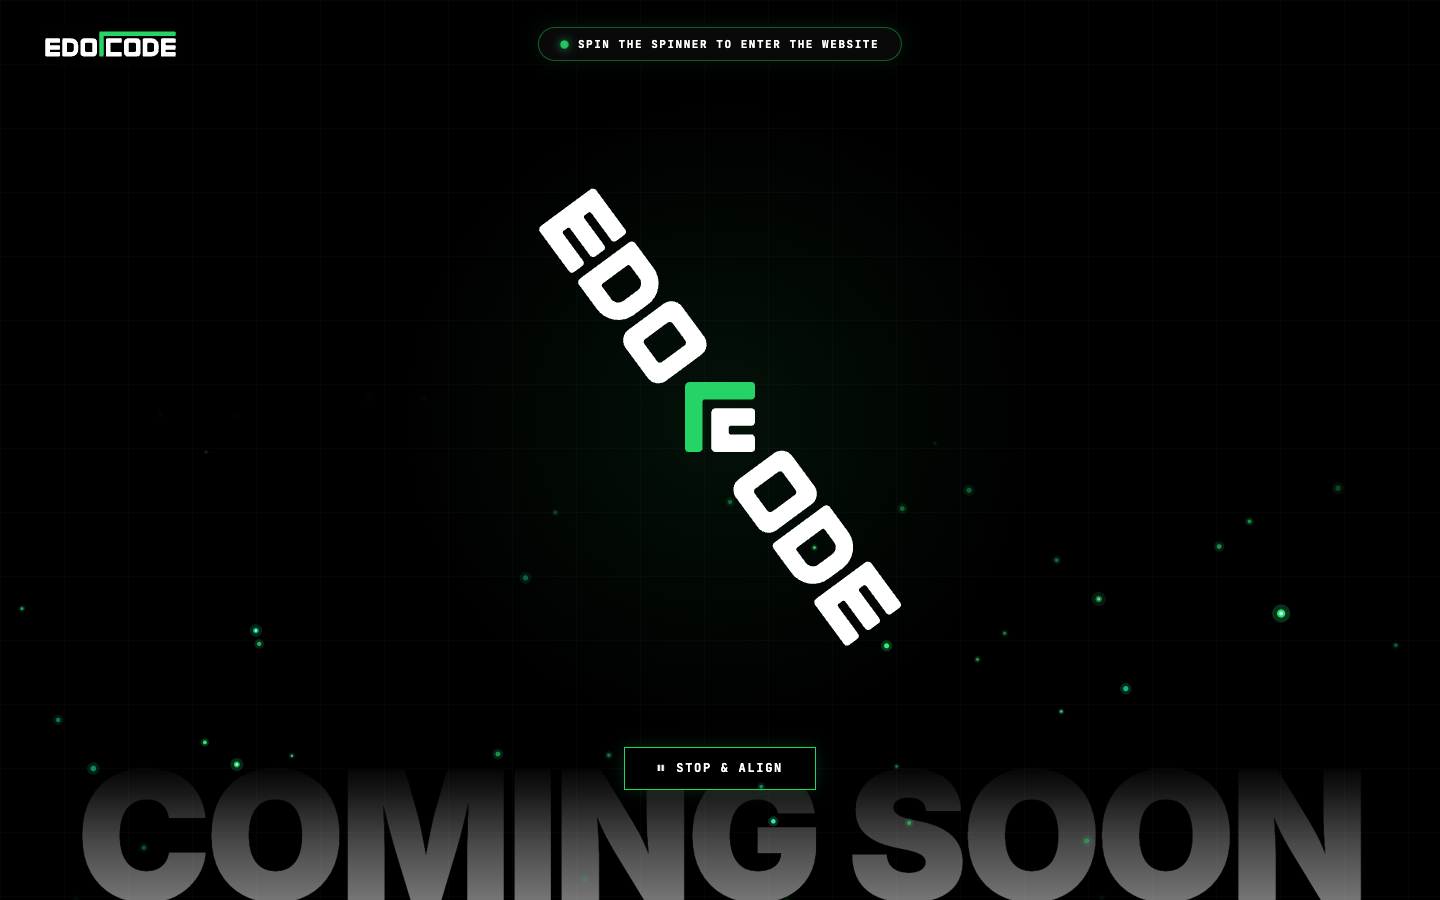
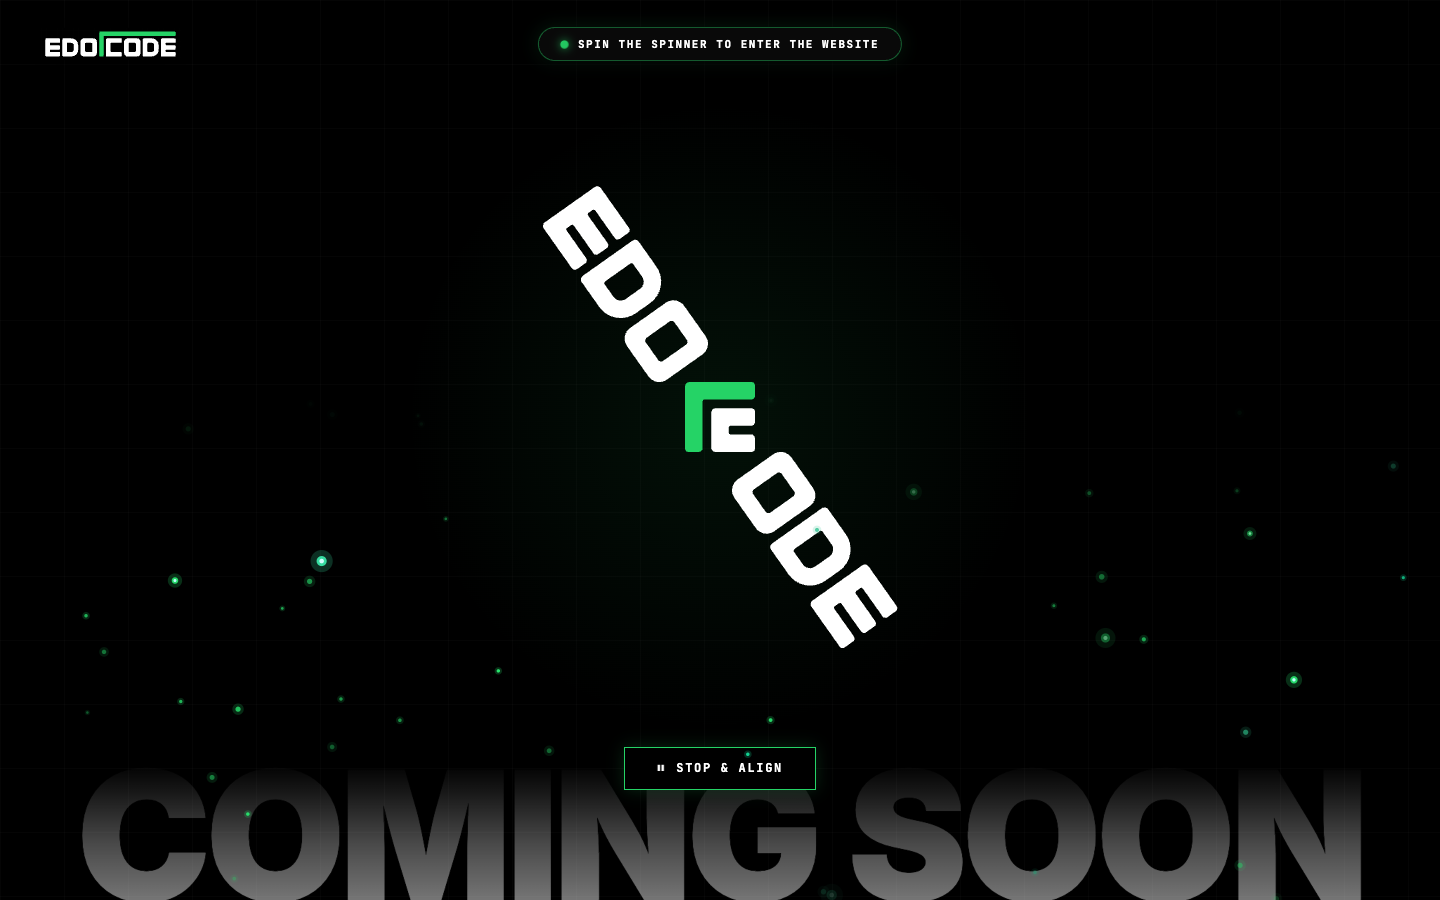
fix(mobile): lower top spin instruction and match coming soon with full-screen view

diff --git a/index.html b/index.html
@@ -297,10 +297,10 @@
     /* Mobile adjustments */
     @media (max-width: 768px) {
       header {
-        padding: 14px 16px;
+        padding: 16px 20px;
         flex-direction: column;
         align-items: center;
-        gap: 10px;
+        gap: 0px;
       }
       .brand-tag {
         align-self: flex-start;
@@ -308,13 +308,14 @@
       .top-instruction {
         position: static;
         transform: none;
-        padding: 7px 16px;
+        margin-top: 30px; /* Positioned lower from the logo for balanced mobile hierarchy */
+        padding: 8px 18px;
         gap: 8px;
         max-width: calc(100vw - 32px);
       }
       .instruction-text {
         font-size: 10px;
-        letter-spacing: 0.07em;
+        letter-spacing: 0.08em;
       }
       .brand-hero-logo {
         height: 24px;
@@ -329,19 +330,7 @@
         font-size: 11px;
       }
       .bg-coming-soon {
-        bottom: max(32px, env(safe-area-inset-bottom, 32px));
-        font-size: clamp(18px, 5.8vw, 30px);
-        letter-spacing: 0.06em;
-        line-height: 1.1;
-        opacity: 0.95;
-        background: linear-gradient(0deg, 
-          rgba(255, 255, 255, 0.90) 0%, 
-          rgba(255, 255, 255, 0.60) 50%, 
-          rgba(255, 255, 255, 0.25) 85%, 
-          rgba(255, 255, 255, 0.0) 100%
-        );
-        -webkit-background-clip: text;
-        -webkit-text-fill-color: transparent;
+        bottom: max(0px, env(safe-area-inset-bottom, 0px));
       }
     }
   </style>
